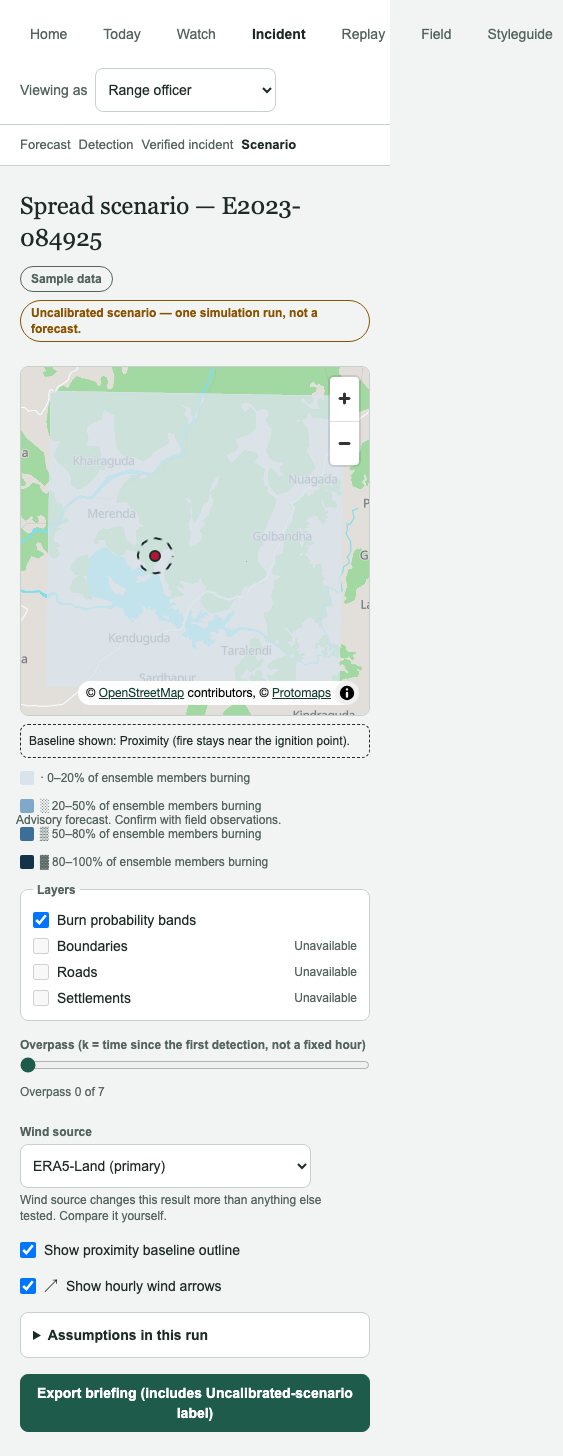
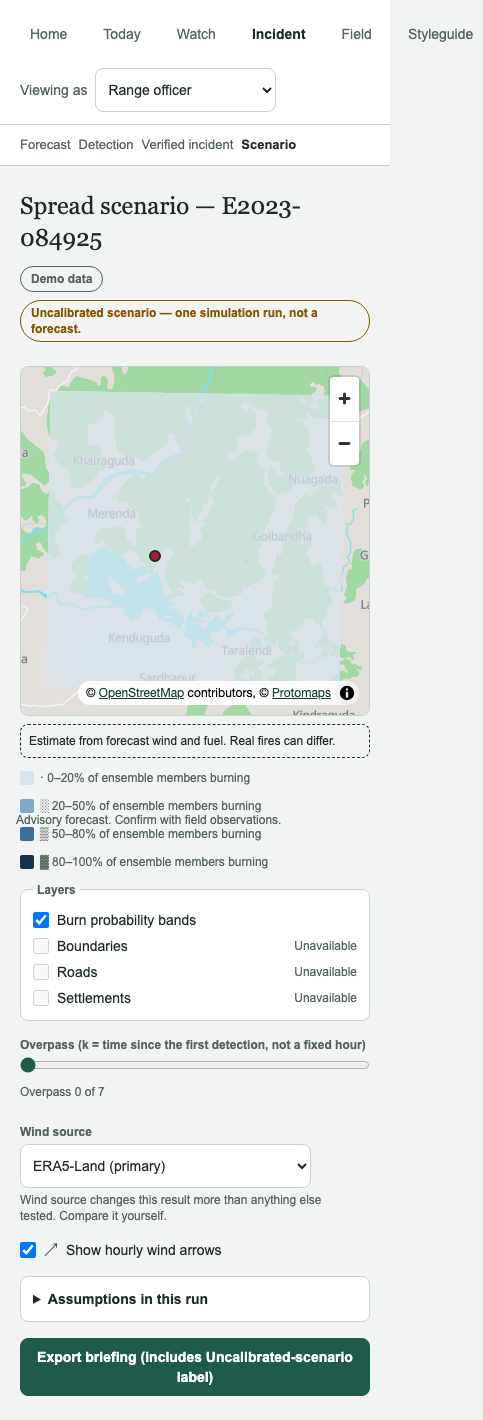
RESQ redesign Phase 2: remove research content from the UI (user amendment)
The user's latest amendment: stop surfacing research/evidence framing to
end users (range officers, control room, field crew) — AUC/AP/IoU numbers
and baseline-comparison claims are reviewer-facing evidence, not something
a field tool should show. Applied:

- Deleted the Replay/evidence screen (frontend/src/redesign/pages/ReplayPage.tsx)
  entirely, its nav link, and its routing in RedesignRoot.tsx.
- Removed the landing page's "See the replay evidence" CTA and the entire
  "What RESQ refuses to claim" section (AUC/AP, held-out-test disclosure).
  Softened the Scenario card's "shown beside the baseline it did not beat"
  copy, which described a baseline comparison the Incident screen no
  longer renders — leaving it would have been inaccurate to what the
  screen now shows.
- Removed the Incident screen's proximity-baseline toggle and outline
  (BaselineToggle, the dashed-circle overlay, the "Baseline shown: ..."
  caption). Replaced with the user's exact required line: "Estimate from
  forecast wind and fuel. Real fires can differ."
- Renamed the "Sample data" badge to "Demo data" (SampleDataBadge in
  primitives.tsx; testid and prop name unchanged so nothing else had to
  change).
- Removed StepIndicator's now-dead "Replay" special case.

Per the explicit instruction, none of the underlying computation was
deleted — backend/app/services/redesign_data.py's replay metrics and
baseline geometry functions are untouched and still correct; they're
[…]

diff --git a/frontend/src/redesign/pages/IncidentPage.tsx b/frontend/src/redesign/pages/IncidentPage.tsx
@@ -2,9 +2,9 @@ import { useState } from 'react';
 import { useQuery } from '@tanstack/react-query';
 import { rqFetch } from '../lib/api';
 import { SampleDataBadge, StepIndicator, TrustBadge } from '../components/primitives';
-import { WindSourceSwitch, BaselineToggle, AssumptionsPanel, TimelineSlider, ProbabilityBandLegend, BriefingExport } from '../components/scenario';
+import { WindSourceSwitch, AssumptionsPanel, TimelineSlider, ProbabilityBandLegend, BriefingExport } from '../components/scenario';
 import {
-  MapShell, LayerPanel, WindArrowsControl, ProbabilityBandsLayer, BaselineLayer, WindArrowsLayer, IgnitionMarker,
+  MapShell, LayerPanel, WindArrowsControl, ProbabilityBandsLayer, WindArrowsLayer, IgnitionMarker,
   type LayerDef, type MapBounds,
 } from '../components/map';
 
@@ -19,10 +19,8 @@ interface ScenarioResponse {
   bounds: MapBounds;
   ignition: { lat: number; lon: number };
   probability_bands_geojson: GeoJSON.FeatureCollection;
-  baselines_geojson: { proximity: GeoJSON.FeatureCollection; circle_final_area: GeoJSON.FeatureCollection };
   wind_arrow: { lat: number; lon: number; direction_deg: number; speed_ms: number; source_time_utc: string };
   assumptions: { fuel: string; weather: string; terrain: string };
-  baseline: { proximity_label: string; circle_label: string; visible_by_default: boolean };
 }
 
 const INCIDENT_LAYERS: LayerDef[] = [
@@ -35,7 +33,6 @@ const INCIDENT_LAYERS: LayerDef[] = [
 export function IncidentPage({ incidentId }: { incidentId: string }) {
   const [windSource, setWindSource] = useState('era5land_native');
   const [overpassK, setOverpassK] = useState(0);
-  const [baselineVisible, setBaselineVisible] = useState(true);
   const [windArrowsVisible, setWindArrowsVisible] = useState(true);
   const [activeLayers, setActiveLayers] = useState(new Set(['probability']));
   const toggleLayer = (id: string) => setActiveLayers((prev) => { const next = new Set(prev); next.has(id) ? next.delete(id) : next.add(id); return next; });
@@ -66,18 +63,13 @@ export function IncidentPage({ incidentId }: { incidentId: string }) {
               <div data-testid="probability-grid">
                 <MapShell label={`Burn probability bands, overpass ${overpassK}`} bounds={data.bounds}>
                   <ProbabilityBandsLayer data={data.probability_bands_geojson} visible={activeLayers.has('probability')} />
-                  {baselineVisible && (
-                    <BaselineLayer id="proximity" data={data.baselines_geojson.proximity} visible dash={[2, 2]} />
-                  )}
                   <WindArrowsLayer arrows={[data.wind_arrow]} visible={windArrowsVisible} />
                   <IgnitionMarker lat={data.ignition.lat} lon={data.ignition.lon} />
                 </MapShell>
               </div>
-              {baselineVisible && (
-                <p data-testid="baseline-overlay" className="mt-2 rounded-rq border border-dashed border-ink bg-paper p-2 text-xs">
-                  Baseline shown: {data.baseline.proximity_label}.
-                </p>
-              )}
+              <p data-testid="scenario-caveat" className="mt-2 rounded-rq border border-dashed border-ink bg-paper p-2 text-xs">
+                Estimate from forecast wind and fuel. Real fires can differ.
+              </p>
               <div className="mt-3">
                 <ProbabilityBandLegend />
               </div>
@@ -90,7 +82,6 @@ export function IncidentPage({ incidentId }: { incidentId: string }) {
             </div>
             <div className="space-y-4">
               <WindSourceSwitch value={windSource} onChange={setWindSource} />
-              <BaselineToggle visible={baselineVisible} onChange={setBaselineVisible} />
               <WindArrowsControl visible={windArrowsVisible} onChange={setWindArrowsVisible} />
               <AssumptionsPanel {...data.assumptions} />
               <BriefingExport onExport={() => window.print()} />

diff --git a/frontend/tests/redesign.spec.ts b/frontend/tests/redesign.spec.ts
@@ -6,7 +6,6 @@ const SCREENS: { path: string; name: string; hasMap: boolean }[] = [
   { path: '/redesign/today', name: 'today', hasMap: true },
   { path: '/redesign/watch', name: 'watch', hasMap: true },
   { path: '/redesign/incident/E2023-084925', name: 'incident', hasMap: true },
-  { path: '/redesign/replay', name: 'replay', hasMap: true },
   { path: '/redesign/field', name: 'field', hasMap: true },
 ];
 
@@ -64,14 +63,24 @@ for (const screen of SCREENS) {
   });
 }
 
-test('incident: baseline overlay visible by default', async ({ page }) => {
+test('incident: shows the forecast-estimate caveat, not a baseline comparison', async ({ page }) => {
   await page.goto('/redesign/incident/E2023-084925');
-  await expect(page.getByTestId('baseline-overlay')).toBeVisible();
+  await expect(page.getByTestId('scenario-caveat')).toHaveText('Estimate from forecast wind and fuel. Real fires can differ.');
+  // The proximity-baseline toggle/outline and the Replay/evidence screen were removed per the
+  // user's amendment (research content, not something the user-facing product should surface).
+  await expect(page.getByText('Show proximity baseline outline')).toHaveCount(0);
+  await expect(page.locator('a[href="/redesign/replay"]')).toHaveCount(0);
 });
 
-test('replay: baseline overlay visible', async ({ page }) => {
-  await page.goto('/redesign/replay');
-  await expect(page.getByTestId('baseline-overlay')).toBeVisible();
+test('no AUC/AP/IoU numbers or research framing appear anywhere in the app', async ({ page }) => {
+  for (const path of ['/redesign', '/redesign/today', '/redesign/watch', '/redesign/incident/E2023-084925', '/redesign/field']) {
+    await page.goto(path);
+    await page.waitForSelector('[data-rq-app]');
+    const text = await textOf(page);
+    expect(text, `${path} should not mention AUC/AP/IoU`).not.toMatch(/\bAUC\b|\bIoU\b|\bAP\s+(vs|baseline)\b/i);
+    expect(text, `${path} should not link to the removed Replay/evidence screen`).not.toContain('replay evidence');
+    expect(text, `${path} should not render the removed "refuses to claim" section`).not.toContain('What RESQ refuses to claim');
+  }
 });
 
 test('today: ranked cells never show a 24/48h horizon value', async ({ page }) => {

diff --git a/frontend/src/redesign/pages/LandingPage.tsx b/frontend/src/redesign/pages/LandingPage.tsx
@@ -22,12 +22,6 @@ export function LandingPage({ go }: { go: (path: string) => void }) {
           >
             See today's ranking
           </button>
-          <button
-            onClick={() => go('/redesign/replay')}
-            className="rounded-rq border border-canopy px-5 py-2.5 text-sm font-semibold text-canopy hover:bg-canopy/10"
-          >
-            See the replay evidence
-          </button>
         </div>
       </section>
 
@@ -42,7 +36,7 @@ export function LandingPage({ go }: { go: (path: string) => void }) {
         {[
           { num: '01', title: 'Forecast', body: "Tomorrow's patrol priority, ranked. Never a prediction, never 24/48h." },
           { num: '02', title: 'Detection', body: 'Satellite and field reports, triaged by a person before anything counts as confirmed.' },
-          { num: '03', title: 'Scenario', body: 'Only after verification: an uncalibrated spread guess, shown beside the baseline it did not beat.' },
+          { num: '03', title: 'Scenario', body: 'Only after verification: an estimate of how a confirmed fire might spread, from forecast wind and fuel.' },
         ].map((card) => (
           <div key={card.num} className="rounded-xl border border-contour p-6">
             <div className="mb-2.5 font-serif text-xs font-bold text-canopy">{card.num}</div>
@@ -50,15 +44,6 @@ export function LandingPage({ go }: { go: (path: string) => void }) {
             <p className="text-sm text-ink-muted">{card.body}</p>
           </div>
         ))}
-      </section>
-
-      <section className="mx-auto mb-24 max-w-[680px] px-10 text-center">
-        <h2 className="mb-4 text-xl font-semibold">What RESQ refuses to claim</h2>
-        <ul className="inline-block list-disc space-y-2 pl-5 text-left text-sm text-ink-muted">
-          <li>Not "AI-powered." Not a prediction. Not calibrated.</li>
-          <li>The simulation did not beat a simple proximity guess on AUC/AP in the fires tested.</li>
-          <li>The four replay incidents built this tool — they are not a held-out test.</li>
-        </ul>
       </section>
     </div>
   );

diff --git a/frontend/src/redesign/components/primitives.tsx b/frontend/src/redesign/components/primitives.tsx
@@ -19,16 +19,18 @@ export function TrustBadge({ level, children }: { level: TrustLevel; children: R
   );
 }
 
-/** SampleDataBadge — every redesign screen shows this until live FIRMS ingestion exists (it does not). */
+/** SampleDataBadge — every redesign screen shows this until live FIRMS ingestion exists (it does
+ *  not). Rendered text is "Demo data" (renamed per the user's amendment); the testid and prop
+ *  name stay as-is so existing callers/tests don't need to change. */
 export function SampleDataBadge({ note }: { note?: string }) {
   return (
     <span
       data-testid="sample-data-badge"
       role="note"
       className="inline-flex items-center gap-1.5 rounded-full border border-ink-muted px-2.5 py-1 text-xs font-semibold text-ink-muted"
-      title={note ?? 'Sample data from the 4 replay incidents, not a real-time feed.'}
+      title={note ?? 'Demo data from the 4 replay incidents, not a real-time feed.'}
     >
-      Sample data
+      Demo data
     </span>
   );
 }
@@ -37,9 +39,9 @@ export function Chip({ children }: { children: ReactNode }) {
   return <span className="inline-block rounded-full border border-contour bg-paper px-2.5 py-1 text-xs text-ink-muted">{children}</span>;
 }
 
-/** StepIndicator — which of the three steps (plus Replay) a screen belongs to. */
+/** StepIndicator — which of the three steps a screen belongs to. */
 const STEPS = ['Forecast', 'Detection', 'Verified incident', 'Scenario'] as const;
-export function StepIndicator({ current }: { current: typeof STEPS[number] | 'Replay' }) {
+export function StepIndicator({ current }: { current: typeof STEPS[number] }) {
   return (
     <ol aria-label="RESQ step" className="flex gap-2 border-b border-contour bg-sheet px-5 py-2.5 text-[13px] text-ink-muted">
       {STEPS.map((step) => (
@@ -47,7 +49,6 @@ export function StepIndicator({ current }: { current: typeof STEPS[number] | 'Re
           {step}
         </li>
       ))}
-      {current === 'Replay' && <li aria-current="step" className="font-bold text-ink">Replay / evidence</li>}
     </ol>
   );
 }

diff --git a/frontend/src/redesign/RedesignRoot.tsx b/frontend/src/redesign/RedesignRoot.tsx
@@ -4,7 +4,6 @@ import { LandingPage } from './pages/LandingPage';
 import { StyleguidePage } from './pages/StyleguidePage';
 import { TodayPage } from './pages/TodayPage';
 import { WatchPage } from './pages/WatchPage';
-import { ReplayPage } from './pages/ReplayPage';
 import { IncidentPage } from './pages/IncidentPage';
 import { FieldPage } from './pages/FieldPage';
 import { RoleSwitcher, readRole } from './components/RoleSwitcher';
@@ -18,7 +17,6 @@ const NAV: { path: string; label: string }[] = [
   { path: '/redesign/today', label: 'Today' },
   { path: '/redesign/watch', label: 'Watch' },
   { path: '/redesign/incident/E2023-084925', label: 'Incident' },
-  { path: '/redesign/replay', label: 'Replay' },
   { path: '/redesign/field', label: 'Field' },
   { path: '/redesign/styleguide', label: 'Styleguide' },
 ];
@@ -31,7 +29,6 @@ export function RedesignRoot({ path, go }: { path: string; go: (next: string) =>
   let body = <LandingPage go={go} />;
   if (path === '/redesign/today') body = <TodayPage />;
   else if (path === '/redesign/watch') body = <WatchPage />;
-  else if (path === '/redesign/replay' || path.startsWith('/redesign/replay/')) body = <ReplayPage />;
   else if (path.startsWith('/redesign/incident/')) body = <IncidentPage incidentId={path.split('/').pop() || 'E2023-084925'} />;
   else if (path === '/redesign/field') body = <FieldPage />;
   else if (path === '/redesign/styleguide') body = <StyleguidePage />;

diff --git a/backend/tests/test_redesign_data.py b/backend/tests/test_redesign_data.py
@@ -1,0 +1,129 @@
+"""Internal verification of the replay-metrics and baseline math behind redesign-v2.
+
+The Replay/evidence screen and the Incident screen's proximity-baseline toggle were removed
+from the rendered UI (user amendment: don't surface AUC/AP/IoU numbers or baseline-comparison
+framing to end users). The underlying computation in
+backend/app/services/redesign_data.py was NOT deleted — it's still correct, still used
+internally, and still worth protecting against regression. These tests are that protection,
+replacing the now-removed frontend assertions (incident/replay "baseline overlay visible",
+the cross-incident win-count table) with a direct check of the same math.
+
+Run with: python -m unittest discover -s backend/tests (from the website root, using
+backend/.venv — see tests/test_simulation_pipeline.py for the same convention).
+"""
+import sys
+import unittest
+from pathlib import Path
+
+BACKEND = Path(__file__).resolve().parents[1]
+sys.path.insert(0, str(BACKEND))
+
+from app.services import redesign_data as rd  # noqa: E402
+
+INCIDENTS = list(rd.REPLAY_INCIDENTS)
+
+# Expected cross-incident win counts for the primary simulation (era5land_native) at each
+# incident's last overpass, against reference=obs_nh — recomputed by hand from
+# results/resq5/*/metrics_by_overpass.csv at the time this test was written. If source data
+# changes, this test should fail loudly rather than silently drift.
+EXPECTED_WINS_OUT_OF_4 = {
+    "auc_vs_proximity": 0,
+    "ap_vs_proximity": 0,
+    "ap_vs_circle": 3,
+    "iou_vs_proximity": 1,
+    "iou_vs_circle": 1,
+}
+
+
+class CrossIncidentWinCountTests(unittest.TestCase):
+    def test_matches_expected_counts(self):
+        counts = rd.cross_incident_win_counts()
+        self.assertEqual(counts["wins_out_of_4"], EXPECTED_WINS_OUT_OF_4)
+        self.assertEqual(counts["n_incidents"], 4)
+
+    def test_per_incident_breakdown_sums_to_totals(self):
+        counts = rd.cross_incident_win_counts()
+        for metric, total in counts["wins_out_of_4"].items():
+            summed = sum(1 for wins in counts["per_incident"].values() if wins[metric])
+            self.assertEqual(summed, total, f"{metric}: per-incident breakdown doesn't sum to the reported total")
+
+
+class ReplayForTests(unittest.TestCase):
+    def test_every_incident_has_all_models_and_a_source_citation(self):
+        for incident_id in INCIDENTS:
+            detail = rd.replay_for(incident_id)
+            self.assertEqual(detail["incident_id"], incident_id)
+            self.assertTrue(detail["development_incident"])
+            self.assertIn("simulation:era5land_native", detail["model_labels"])
+            self.assertIn("baseline_a_proximity", detail["model_labels"])
+            self.assertIn("baseline_b_circle_final_area", detail["model_labels"])
+            self.assertIn("metrics_by_overpass.csv", detail["source"])
+
+    def test_unknown_incident_raises(self):
+        with self.assertRaises(KeyError):
+            rd.replay_for("not-a-real-incident")
+
+
+class BaselineGeometryTests(unittest.TestCase):
+    def test_proximity_radius_matches_protocol_formula(self):
+        # RESQ5_PROTOCOL.md §8(a): p(d) = exp(-d/1000m); the p=0.5 disc is d <= 1000*ln(2) m.
+        self.assertAlmostEqual(rd.PROXIMITY_BASELINE_RADIUS_M, 693.15, places=1)
+
+    def test_circles_for_every_incident_are_centred_on_the_ignition_point(self):
+        for incident_id in INCIDENTS:
+            circles = rd.baseline_circles_geojson(incident_id)
+            ignition = rd.nominal_ignition(incident_id)
+            for key in ("proximity", "circle_final_area"):
+                fc = circles[key]
+                self.assertEqual(len(fc["features"]), 1)
+                poly = fc["features"][0]["geometry"]
+                self.assertEqual(poly["type"], "Polygon")
+                # The polygon's centroid (mean of its ring's vertices) should land very close to
+                # the ignition point — not an exact match (it's a discretised circle, not the
+                # ignition point itself), but within a small fraction of the circle's own radius.
+                ring = poly["coordinates"][0]
+                lon_mean = sum(p[0] for p in ring) / len(ring)
+                lat_mean = sum(p[1] for p in ring) / len(ring)
+                self.assertAlmostEqual(lon_mean, ignition["lon"], places=2)
+                self.assertAlmostEqual(lat_mean, ignition["lat"], places=2)
+
+    def test_circle_final_area_radius_matches_summary_json(self):
+        for incident_id in INCIDENTS:
+            circles = rd.baseline_circles_geojson(incident_id)
+            expected = rd._summary(incident_id)["baseline_circle_radius_m"]
+            self.assertAlmostEqual(circles["circle_final_area"]["features"][0]["properties"]["radius_m"], expected, places=1)
+
+
+class GeoReferencingTests(unittest.TestCase):
+    def test_ignition_point_falls_inside_domain_bounds_for_every_incident(self):
+        for incident_id in INCIDENTS:
+            bounds = rd.domain_bounds_wgs84(incident_id)
+            ignition = rd.nominal_ignition(incident_id)
+            west, south, east, north = bounds
+            self.assertTrue(west < ignition["lon"] < east, f"{incident_id}: ignition lon outside domain bounds")
+            self.assertTrue(south < ignition["lat"] < north, f"{incident_id}: ignition lat outside domain bounds")
+
+    def test_probability_grid_geojson_is_a_valid_feature_collection(self):
+        geo = rd.probability_grid_geojson("E2023-084925", "era5land_native", 0)
+        self.assertEqual(geo["type"], "FeatureCollection")
+        self.assertTrue(len(geo["features"]) > 0)
+        for feature in geo["features"]:
+            self.assertIn(feature["properties"]["band"], (0, 1, 2, 3))
+            self.assertEqual(feature["geometry"]["type"], "Polygon")
+
+    def test_observed_footprint_geojson_is_a_valid_feature_collection(self):
+        geo = rd.observed_footprint_geojson("E2023-084925", 0)
+        self.assertEqual(geo["type"], "FeatureCollection")
+        self.assertTrue(len(geo["features"]) > 0)
+        self.assertEqual(geo["features"][0]["geometry"]["type"], "Polygon")
+
+    def test_wind_arrow_every_source_resolves_to_a_real_observation(self):
+        time_utc = rd.overpass_time_utc("E2023-084925", 0)
+        for source in ("era5land_native", "era5_025", "best_match"):
+            arrow = rd.wind_arrow("E2023-084925", source, time_utc)
+            self.assertTrue(0 <= arrow["direction_deg"] < 360)
+            self.assertGreaterEqual(arrow["speed_ms"], 0)
+
+
+if __name__ == "__main__":
+    unittest.main()
